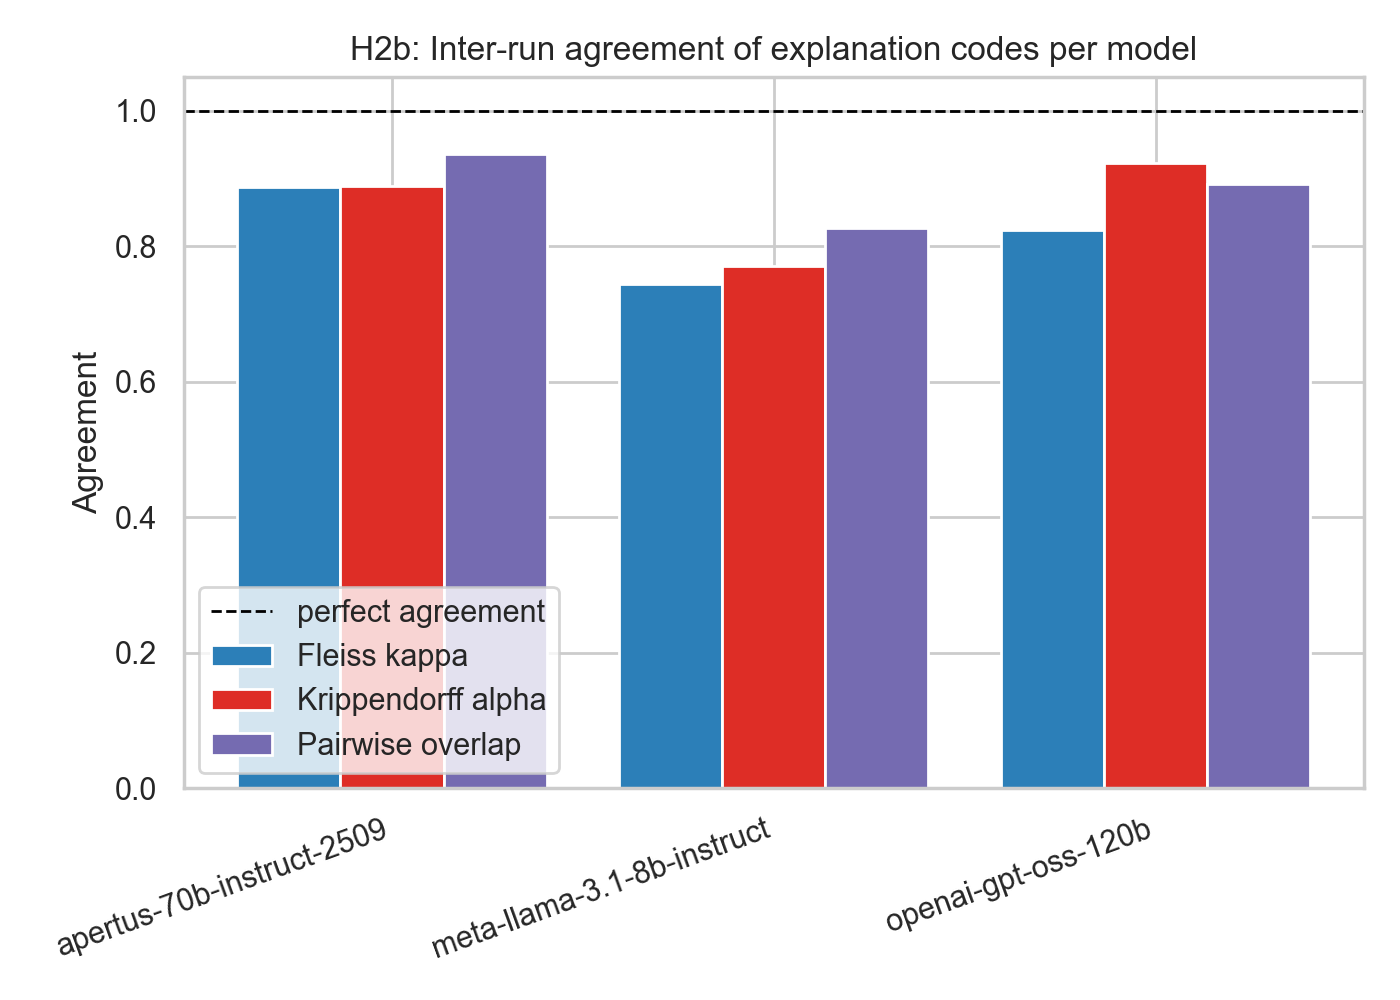
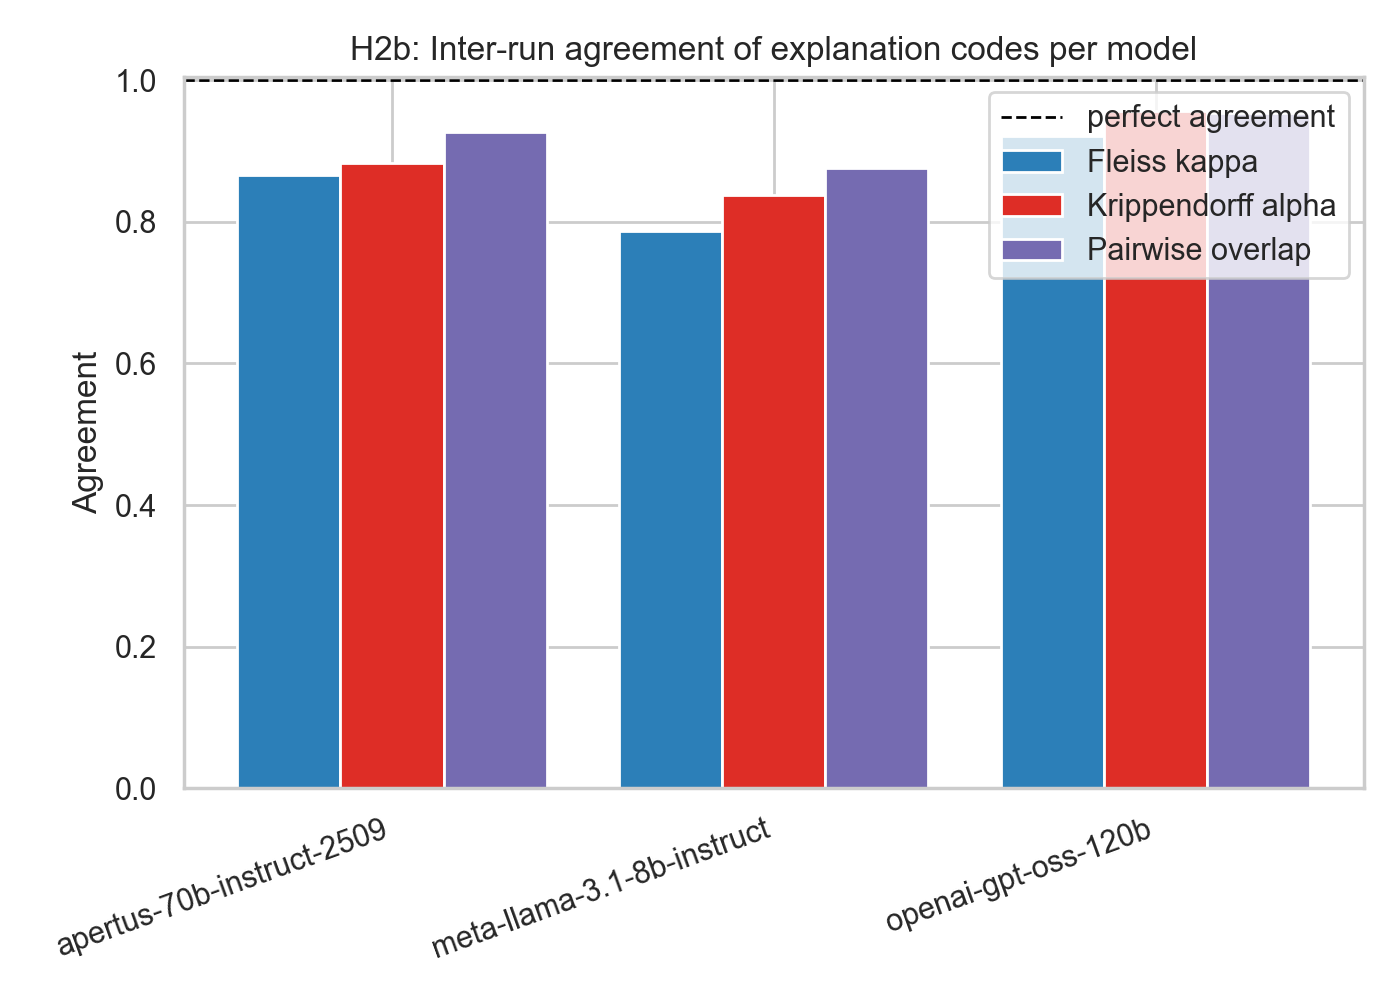
Update H2 & H3

diff --git a/03_analysis/h3_explanation_alignment.py b/03_analysis/h3_explanation_alignment.py
@@ -1,1 +1,184 @@
+import logging
+from pathlib import Path
+import numpy as np
 import pandas as pd
+import matplotlib.pyplot as plt
+import seaborn as sns
+from scipy.stats import binomtest, chi2_contingency
+from statsmodels.stats.proportion import proportion_confint
+import statsmodels.formula.api as smf
+
+# paths
+base_dir = Path(__file__).parent
+log_dir = base_dir / "logs"
+fig_dir = base_dir / "figures"
+log_dir.mkdir(exist_ok=True)
+fig_dir.mkdir(exist_ok=True)
+
+# logger
+logger = logging.getLogger("h3")
+logger.setLevel(logging.INFO)
+logger.handlers.clear()
+fh = logging.FileHandler(log_dir / "h3_explanation_alignment.log", mode="w", encoding="utf-8")
+ch = logging.StreamHandler()
+for h in (fh, ch):
+    h.setFormatter(logging.Formatter("%(message)s"))
+    logger.addHandler(h)
+def log(m): logger.info(m)
+
+FEATURE_TERMS = {
+    "company_size": ["company size", "company of", "employees", "size (", "large company",
+                     "small company", "large enterprise", "mid-size", "mid-sized",
+                     "medium to large", "small (", "large ("],
+    "website_dwell_time": ["dwell time", "dwell_time", "time on site", "sec)", "seconds",
+                           " sec", "min)", "minute", " min", "time spent"],
+    "demo_requests": ["demo request", "demo requests", "demo_requests", "demo", "no demo"],
+    "email_response": ["email response", "email_response", "email", "response to", "reply",
+                       "not interested", "looks interesting", "send more info",
+                       "schedule a meeting", "meeting next week", "relevant to",
+                       "very promising", "negative response", "disinterest", "responded"],
+    "industry": ["industry", "finance", "public service", "software", "manufacturing",
+                 "healthcare", "energy", "retail", "sector"],
+    "region": ["region", "europe", "north america", "south america", "africa",
+               "middle east", "asia", "geograph", "based in"],
+}
+
+# ---------- load coded explanations ----------
+coding = pd.read_csv(base_dir / "post_processing" / "llm_lead_intent_results_explanations_coded.csv")
+coding["aligned"] = (coding["final_code"] > 0).astype(int)
+
+low_text = coding["reasoning"].astype(str).str.lower()
+for f, terms in FEATURE_TERMS.items():
+    coding[f"kw_{f}"] = low_text.apply(lambda t: int(any(k in t for k in terms)))
+
+agg = {"aligned": ("aligned", lambda s: int(s.mean() >= 0.5)),
+       "align_share": ("aligned", "mean")}
+for f in FEATURE_TERMS:
+    agg[f"kw_{f}"] = (f"kw_{f}", lambda s: int(s.mean() >= 0.5))
+case = (coding.groupby(["profile_id", "model", "perturbed_feature"])
+        .agg(**agg).reset_index())
+
+# ---------- determine which perturbation changed the classification (for Variant 1) ----------
+scores = pd.read_csv(base_dir / "post_processing" / "llm_lead_intent_results_clean.csv")
+scores["label"] = scores["intent"].str.strip().map({"Low Intent": 0, "High Intent": 1})
+scores["base_profile"] = scores["profile_id"].str.split("_").str[0]
+scores["perturbation"] = scores["profile_id"].str.split("_", n=1).str[1]
+maj = (scores.groupby(["profile_id", "model", "base_profile", "perturbation"])["label"]
+       .agg(lambda s: int(s.mean() >= 0.5)).reset_index().rename(columns={"label": "maj_label"}))
+base_lab = (maj[maj["perturbation"] == "BASE"][["base_profile", "model", "maj_label"]]
+            .rename(columns={"maj_label": "base_label"}))
+pert = maj[maj["perturbation"] != "BASE"].merge(base_lab, on=["base_profile", "model"], how="left")
+pert["score_changed"] = (pert["maj_label"] != pert["base_label"]).astype(int)
+case = case.merge(pert[["profile_id", "model", "score_changed"]], on=["profile_id", "model"], how="left")
+case["score_changed"] = case["score_changed"].fillna(0).astype(int)
+
+# ---------- STEP 0: quantify the causal case base (motivation for Variant 2) ----------
+n_total = len(case)
+n_causal = int(case["score_changed"].sum())
+n_stable = n_total - n_causal
+log("H3 Explanation Alignment")
+log("========================")
+log("Rationale: H3 targets causal cases (score changed). We first quantify how")
+log("many such cases exist to justify the complementary all-cases analysis.")
+log(f"\ntotal perturbation cases: {n_total}")
+log(f"score-CHANGING cases (Variant 1 base): {n_causal} ({n_causal / n_total:.1%})")
+log(f"score-stable cases: {n_stable} ({n_stable / n_total:.1%})")
+if n_causal < 30:
+    log(f">> Only {n_causal} causal cases: statistical power for Variant 1 is limited,")
+    log(">> so Variant 2 (all perturbation cases) is reported as the primary evidence.")
+
+def report(sub, title):
+    n = len(sub)
+    if n == 0:
+        log(f"\n{title}: no cases"); return
+    a = int(sub["aligned"].sum())
+    r = a / n
+    lo, hi = proportion_confint(a, n, alpha=0.05, method="wilson")
+    log(f"\n{title}")
+    log(f"  aligned: {a}/{n} = {r:.3f}   Wilson 95% CI [{lo:.3f}, {hi:.3f}]   NOT aligned {1 - r:.3f}")
+    if n >= 5:
+        bt = binomtest(a, n, 0.5, alternative="two-sided")
+        log(f"  binomial test vs 0.5: p={bt.pvalue:.4g}")
+
+# ---------- VARIANT 1: causal cases (the actual H3) ----------
+report(case[case["score_changed"] == 1], "Variant 1 (H3, causal cases): perturbed feature cited")
+
+# ---------- VARIANT 2: all perturbation cases (complementary) ----------
+report(case, "Variant 2 (complementary, all cases): perturbed feature cited")
+
+# empirical incidental baseline over the non-perturbed features (all cases)
+incidental = [r[f"kw_{f}"] for _, r in case.iterrows()
+              for f in FEATURE_TERMS if f != r["perturbed_feature"]]
+p0 = float(np.mean(incidental))
+a_all, n_all = int(case["aligned"].sum()), len(case)
+bt0 = binomtest(a_all, n_all, p0, alternative="two-sided")
+log(f"\nincidental baseline p0={p0:.3f}; Variant 2 binomial vs p0: p={bt0.pvalue:.4g}")
+
+# ---------- feature-type analyses on Variant 2 (enough power) ----------
+log("\n--- Alignment per perturbed feature (Variant 2) ---")
+feat = (case.groupby("perturbed_feature")["aligned"]
+        .agg(["mean", "sum", "count"]).sort_values("mean"))
+log(feat.to_string())
+
+cont = pd.crosstab(case["perturbed_feature"], case["aligned"])
+chi2, p_chi, dof, _ = chi2_contingency(cont)
+V = np.sqrt(chi2 / (cont.values.sum() * (min(cont.shape) - 1)))
+log(f"\nchi-square feature vs alignment: chi2={chi2:.2f}, dof={dof}, p={p_chi:.4g}, Cramer's V={V:.3f}")
+
+m = smf.logit("aligned ~ C(perturbed_feature)", data=case).fit(disp=False)
+log("\nlogistic regression aligned ~ C(perturbed_feature):")
+log(m.summary2().tables[1].to_string())
+
+# ---------- visualizations ----------
+sns.set_theme(style="whitegrid")
+
+# Plot 1: case base — how many cases changed the score
+fig, ax = plt.subplots(figsize=(6, 5))
+ax.bar(["score stable", "score changed\n(H3 base)"], [n_stable, n_causal],
+       color=["#9ecae1", "#08519c"])
+for i, v in enumerate([n_stable, n_causal]):
+    ax.text(i, v + 1, str(v), ha="center", fontweight="bold")
+ax.set_ylabel("Number of perturbation cases")
+ax.set_title("H3: Few cases actually change the score (motivates Variant 2)")
+fig.tight_layout()
+fig.savefig(fig_dir / "h3_case_base.png", dpi=200)
+
+# Plot 2: alignment Variant 1 vs Variant 2 with Wilson CIs
+fig, ax = plt.subplots(figsize=(6, 5))
+groups, rates, elo, ehi = [], [], [], []
+for label, sub in [("V1 causal", case[case["score_changed"] == 1]),
+                   ("V2 all", case)]:
+    if len(sub) == 0:
+        continue
+    a, nn = int(sub["aligned"].sum()), len(sub)
+    r = a / nn
+    l, h = proportion_confint(a, nn, method="wilson")
+    groups.append(f"{label}\n(n={nn})"); rates.append(r)
+    elo.append(r - l); ehi.append(h - r)
+ax.bar(groups, rates, yerr=[elo, ehi], capsize=6, color=["#08519c", "#2c7fb8"])
+for i, r in enumerate(rates):
+    ax.text(i, r + 0.03, f"{r:.2f}", ha="center", fontweight="bold")
+ax.axhline(1.0, color="black", linestyle=":", label="perfect alignment")
+ax.axhline(p0, color="#de2d26", linestyle="--", label=f"incidental baseline ({p0:.2f})")
+ax.set_ylim(0, 1.1)
+ax.set_ylabel("Citation rate of perturbed feature")
+ax.set_title("H3: Explanation alignment, causal vs all cases")
+ax.legend()
+fig.tight_layout()
+fig.savefig(fig_dir / "h3_alignment_v1_v2.png", dpi=200)
+
+# Plot 3: alignment per feature (Variant 2) with Wilson CIs
+fig, ax = plt.subplots(figsize=(7, 5))
+fp = feat.reset_index()
+elo, ehi = [], []
+for _, r in fp.iterrows():
+    l, h = proportion_confint(int(r["sum"]), int(r["count"]), method="wilson")
+    elo.append(r["mean"] - l); ehi.append(h - r["mean"])
+ax.barh(fp["perturbed_feature"], fp["mean"], xerr=[elo, ehi], capsize=4, color="#2c7fb8")
+ax.axvline(p0, color="#de2d26", linestyle="--", label=f"incidental baseline ({p0:.2f})")
+ax.set_xlim(0, 1.05)
+ax.set_title("H3: Alignment rate per perturbed feature (all cases)")
+ax.set_xlabel("Share of cases the feature is cited")
+ax.legend()
+fig.tight_layout()
+fig.savefig(fig_dir / "h3_alignment_per_feature.png", dpi=200)

diff --git a/03_analysis/h2b_explanation_stability.py b/03_analysis/h2b_explanation_stability.py
@@ -26,7 +26,7 @@ for h in (fh, ch):
 def log(m): logger.info(m)
 
 # load coded data
-df = pd.read_csv(base_dir / "post_processing" / "explanation_coding_template_final.csv", sep=";")
+df = pd.read_csv(base_dir / "post_processing" / "llm_lead_intent_results_explanations_coded.csv")
 
 # a case is one profile evaluated by one model, repeated over runs
 df["case"] = df["profile_id"] + " | " + df["model"]
